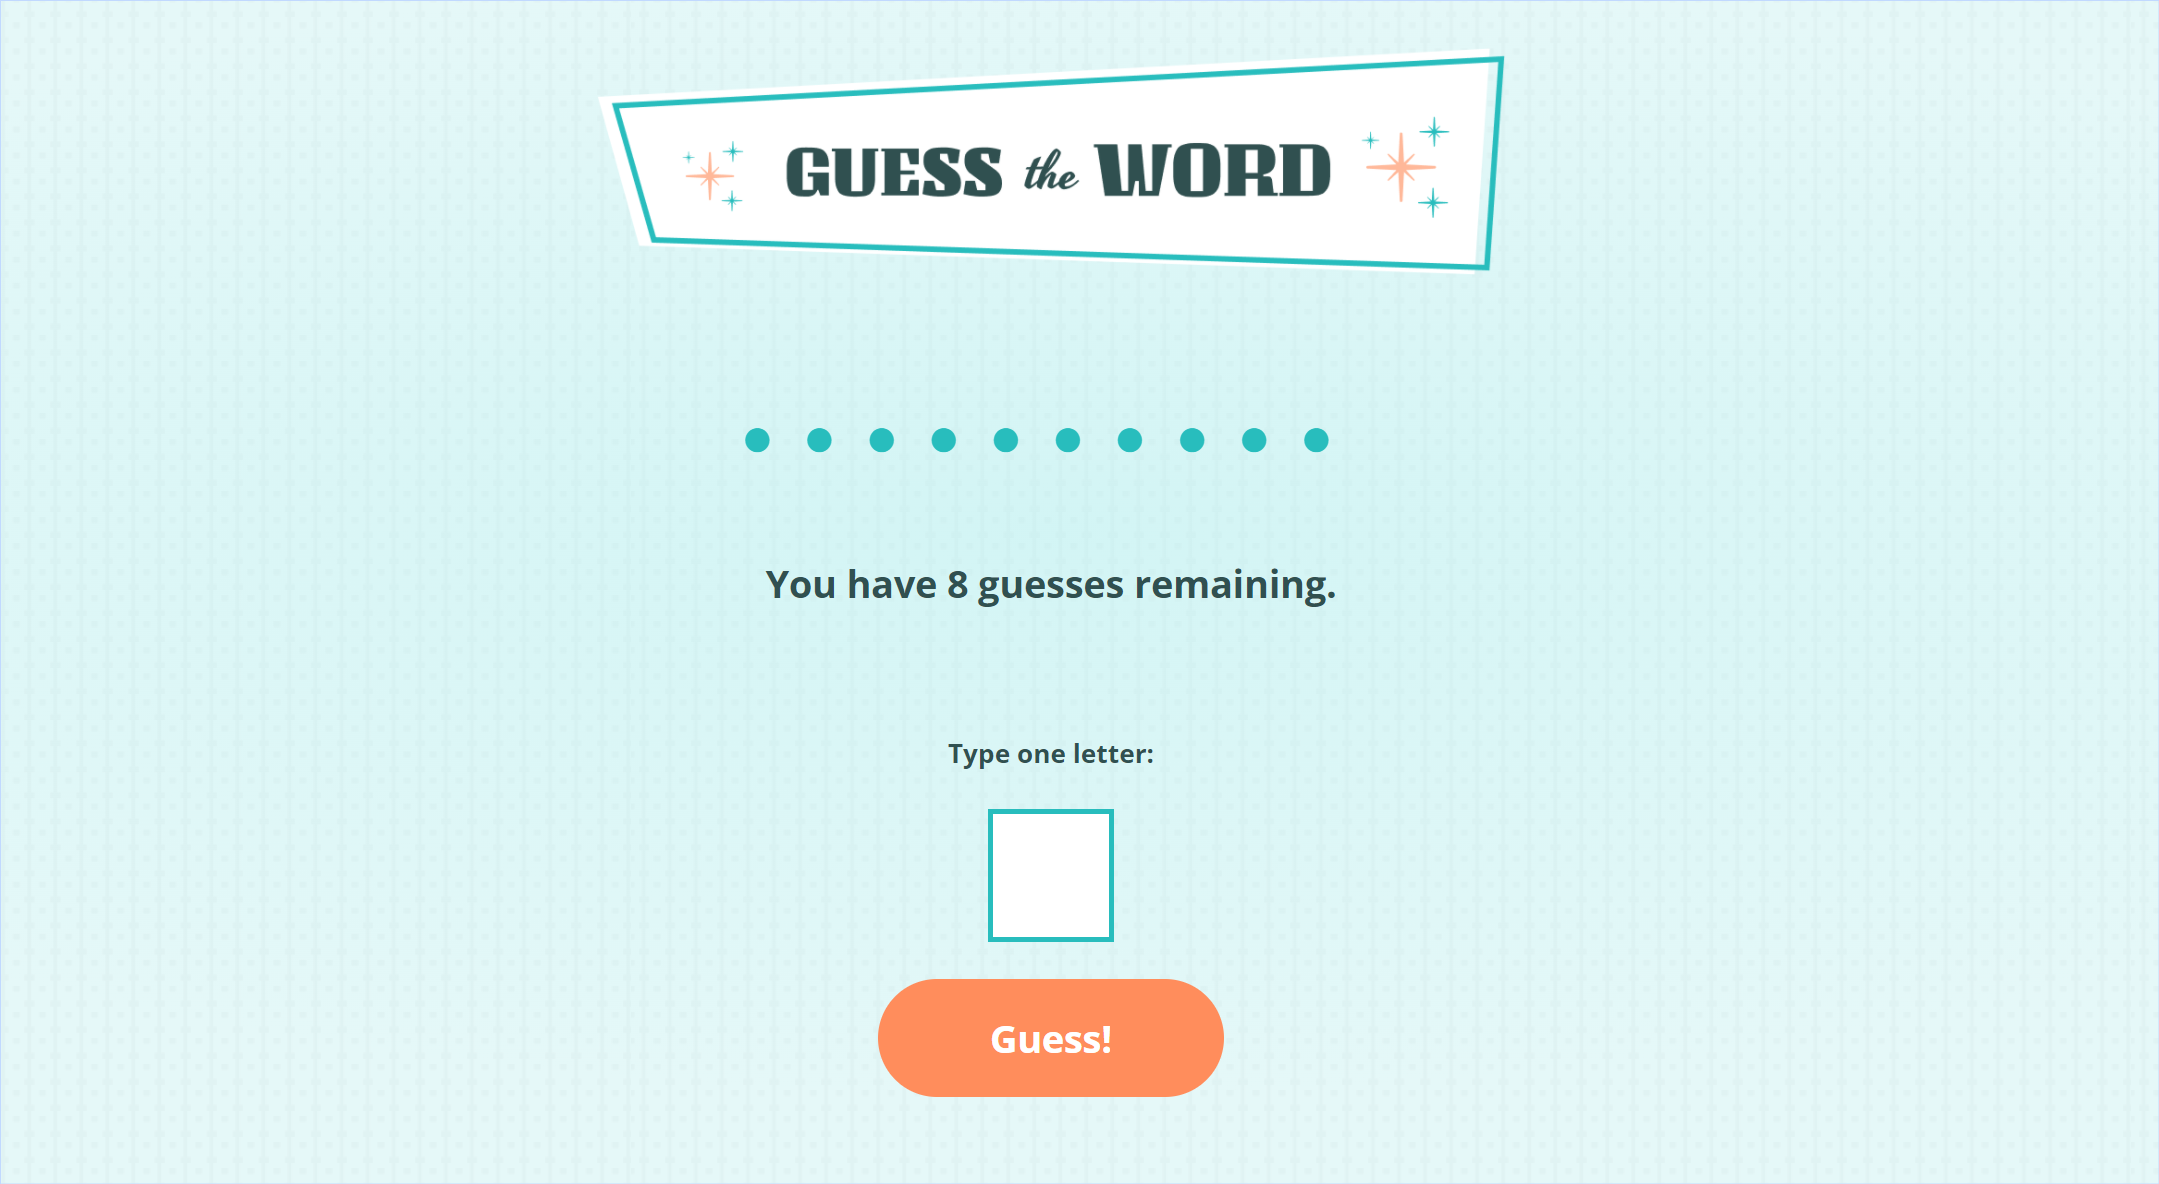
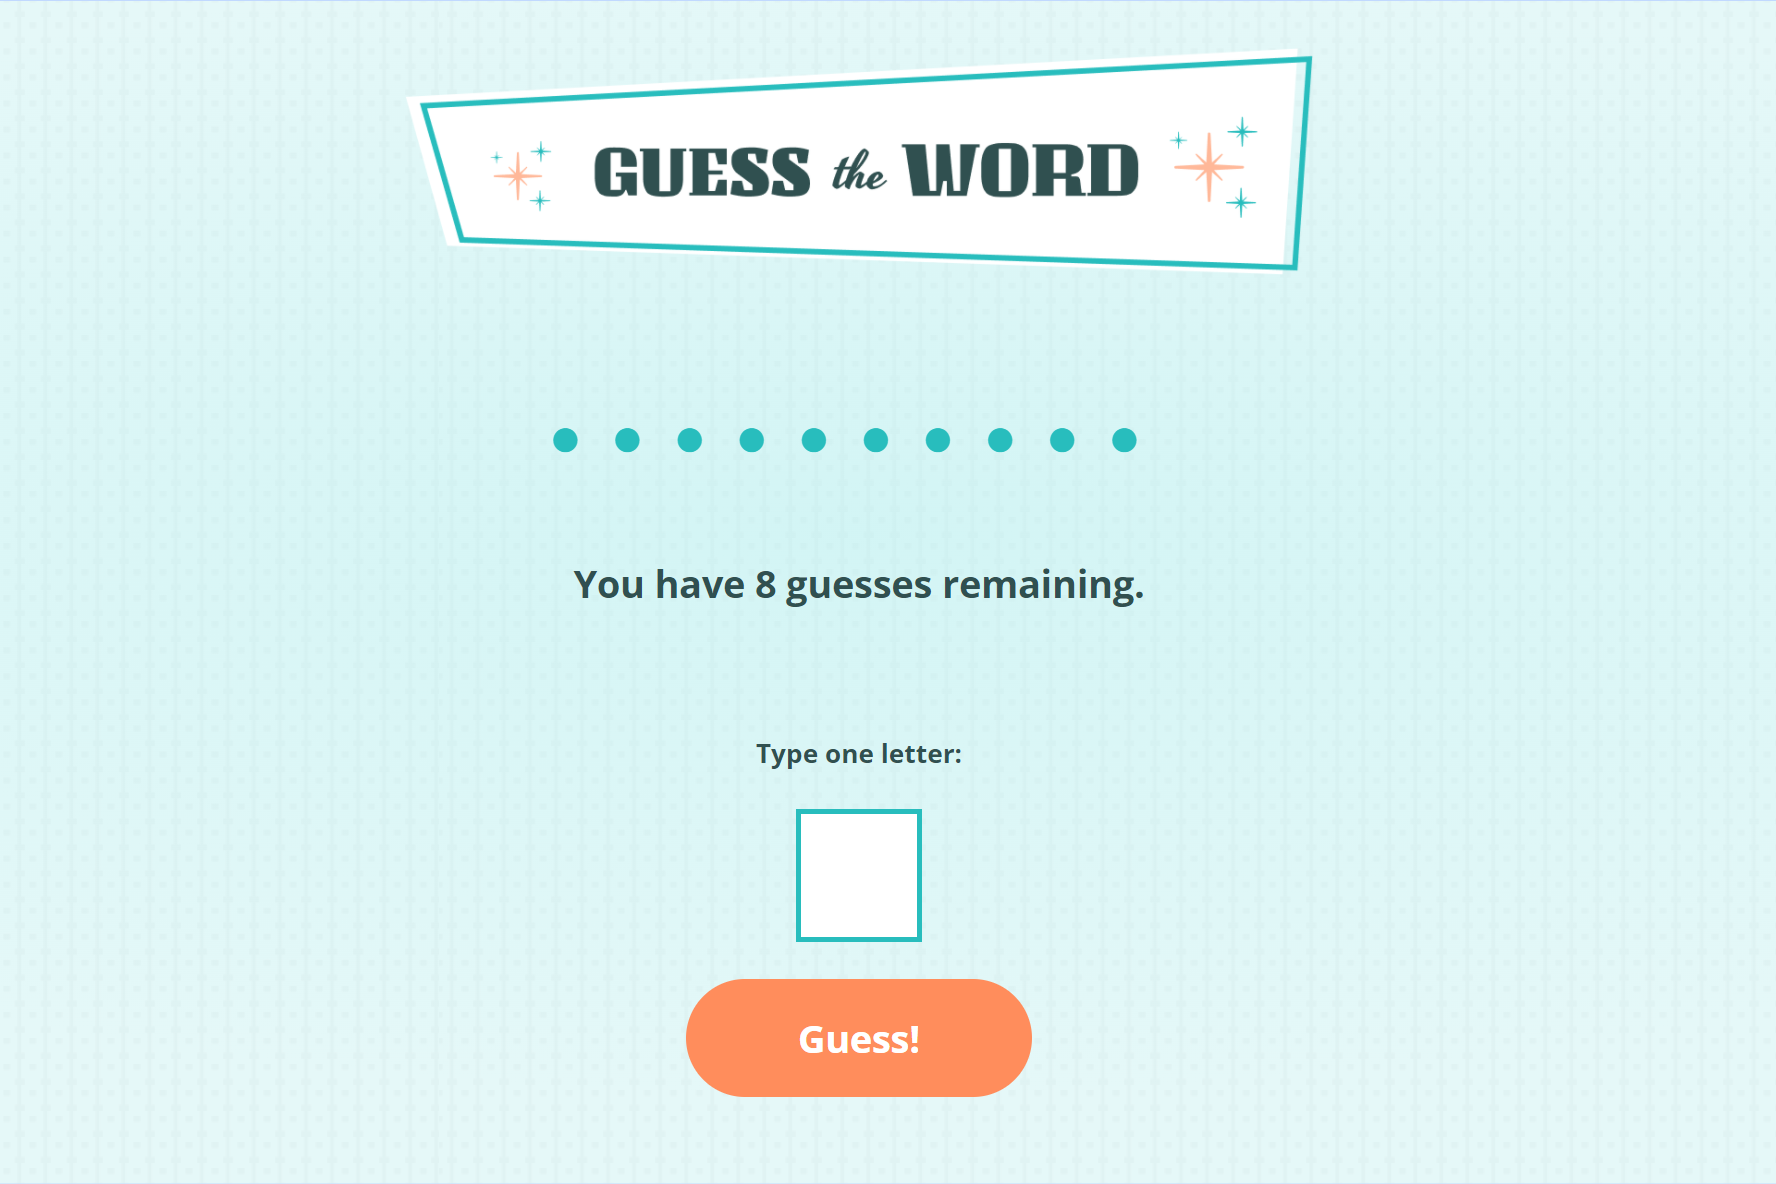
Updated all images to same w/h ratio

diff --git a/assets/style.css b/assets/style.css
@@ -44,11 +44,11 @@ h2 {
 }
 
 h3 {
-  font-size: 2rem;
+  font-size: 1.6rem;
 }
 
 h4 {
-  font-size: 1.5rem;
+  font-size: 1.4rem;
   font-weight: 600;
 }
 
@@ -244,10 +244,10 @@ article header {
   flex-grow: 0;
   flex-shrink: 0;
   flex-basis: 50%;
-  align-self: flex-start;  
+  align-self: flex-start;
   /* align-self: center; */
   background-color: var(--pink);
-  margin-top: -8rem; 
+  margin-top: -8rem;
   padding: 0.2rem 0.6rem 0.2rem 0;
   /* min-height: 8rem; */
 }
@@ -311,7 +311,6 @@ footer h4 {
 }
 /* SMALL MOBILES */
 @media screen and (max-width: 300px) {
-
   p {
     margin-right: 1rem;
   }
@@ -323,7 +322,7 @@ footer h4 {
     justify-content: center;
     margin-bottom: 2rem;
   }
-  
+
   .image-subtitle {
     background-color: var(--pink);
     padding: 1rem;
@@ -332,18 +331,25 @@ footer h4 {
     flex-basis: 100%;
     margin: -6rem 2rem 2rem 2rem;
   }
-
- }
+}
 
 /* MEDIUM SCREENS */
 @media screen and (min-width: 768px) {
-
   h1 {
     text-align: left;
   }
 
+
+  h3 {
+    font-size: 2rem;
+  }
+  
+  h4 {
+    font-size: 1.6rem;
+  }
+
   nav ul {
-    justify-content:end;
+    justify-content: end;
     margin: 1rem 4rem 2rem 1rem;
   }
 
@@ -419,18 +425,17 @@ footer h4 {
   }
 
   article:not(:first-child) .article-card {
-    height: 250px; 
+    height: 250px;
   }
 
   article header:not(:first-child) {
     flex-basis: 50%;
-    margin-top: -10rem; 
+    margin-top: -10rem;
   }
 
-  article:first-child header{
+  article:first-child header {
     flex-basis: 25%;
   }
-
 }
 
 /* LARGE SCREENS */

diff --git a/index.html b/index.html
@@ -15,7 +15,6 @@
           <li class="nav-format"><a href="#about-me">About Me</a></li>
           <li class="nav-format"><a href="#work">Work</a></li>
           <li class="nav-format"><a href="#contact-me">Contact Me</a></li>
-          <!-- TO DO - Placeholder link awaiting resume: link to github respository gallery -->
           <li class="nav-format">
             <a
               href="https://grace-anderson.github.io/portfolio-9-my-repo-gallery/"
@@ -105,7 +104,7 @@
                   <p class="tiny-text">HTML / CSS / JS</p>
                 </header>
               </article>
-              <!-- article 4 -->
+              <!-- article 3 -->
               <article class="article-card">
                 <figure>
                   <a
@@ -123,7 +122,7 @@
                   <p class="tiny-text">HTML / CSS / JS</p>
                 </header>
               </article>
-              <!-- article 3 -->
+              <!-- article 4 -->
               <article class="article-card">
                 <figure>
                   <a
